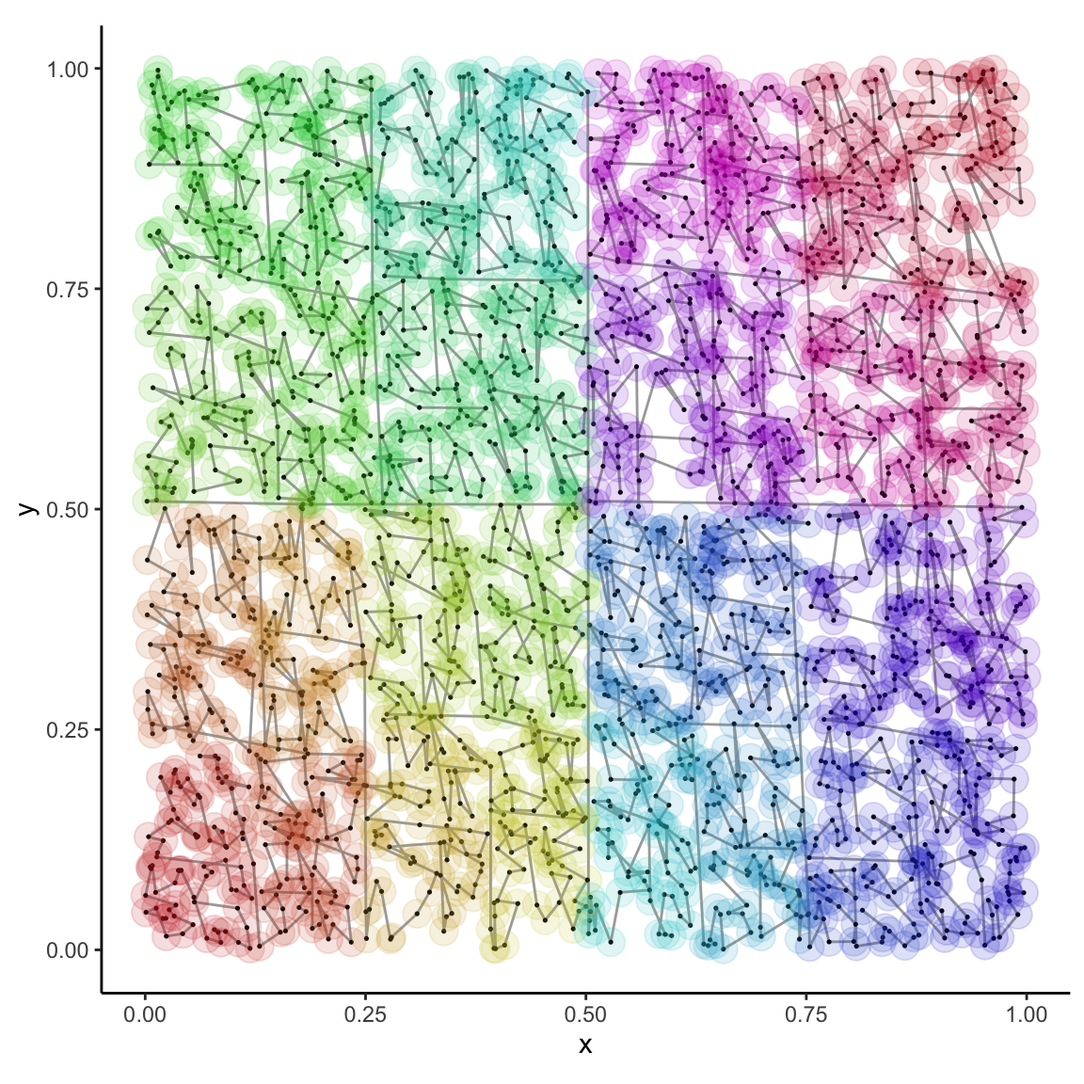
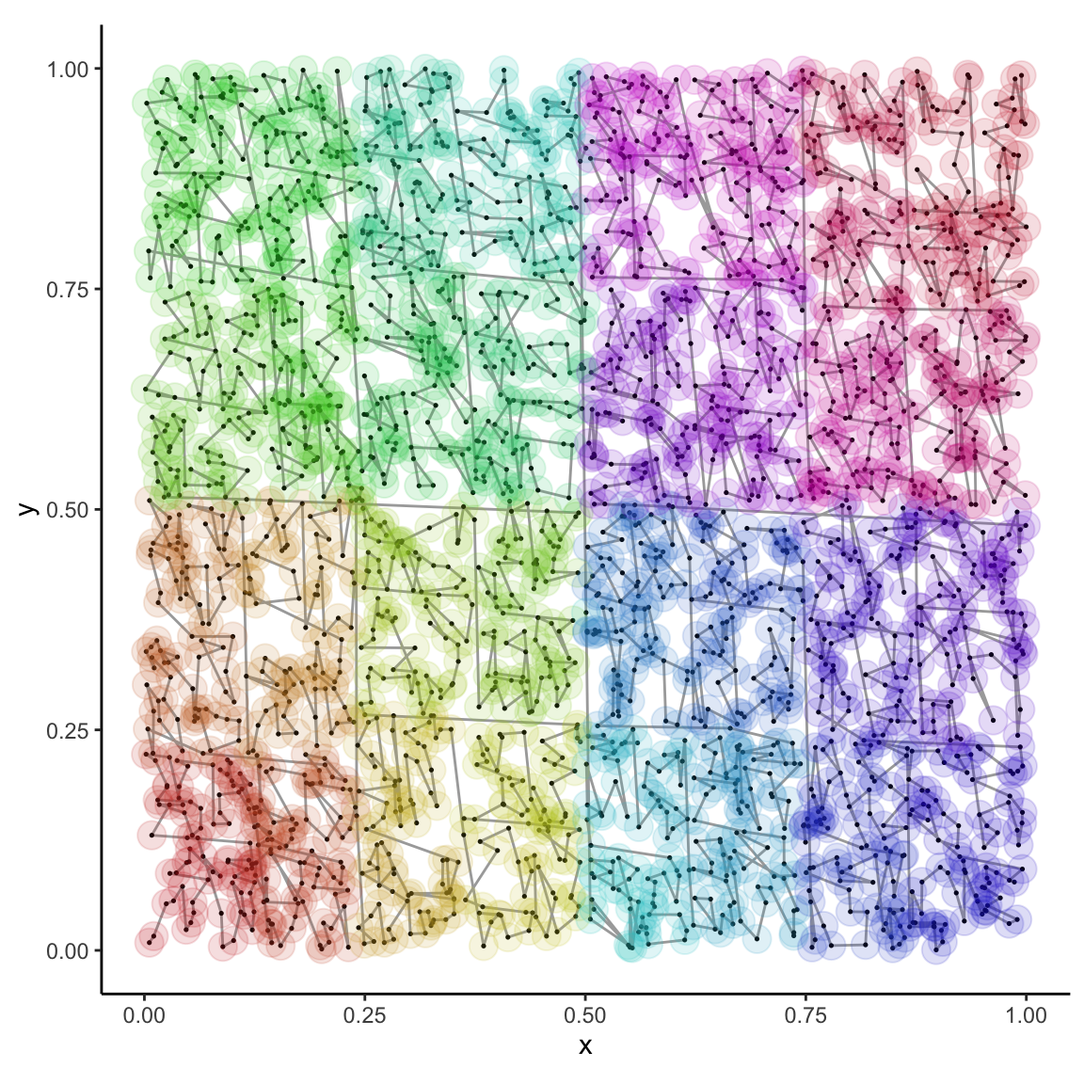
rebuild site

diff --git a/docs/articles/kdtools.html b/docs/articles/kdtools.html
@@ -86,7 +86,7 @@
       <h1>Getting started with kdtools</h1>
                         <h4 class="author">Timothy H. Keitt</h4>
             
-            <h4 class="date">2019-07-29</h4>
+            <h4 class="date">2019-08-03</h4>
       
       <small class="dont-index">Source: <a href="https://github.com/thk686/kdtools/blob/master/vignettes/kdtools.Rmd"><code>vignettes/kdtools.Rmd</code></a></small>
       <div class="hidden name"><code>kdtools.Rmd</code></div>
@@ -104,68 +104,68 @@
 <a class="sourceLine" id="cb1-2" data-line-number="2">x =<span class="st"> </span><span class="kw"><a href="https://www.rdocumentation.org/packages/base/topics/matrix">matrix</a></span>(<span class="kw"><a href="https://www.rdocumentation.org/packages/stats/topics/Uniform">runif</a></span>(<span class="fl">3e3</span>), <span class="dt">nc =</span> <span class="dv">3</span>)</a>
 <a class="sourceLine" id="cb1-3" data-line-number="3">y =<span class="st"> </span><span class="kw"><a href="../reference/convert.html">matrix_to_tuples</a></span>(x)</a>
 <a class="sourceLine" id="cb1-4" data-line-number="4">y[<span class="dv">1</span><span class="op">:</span><span class="dv">3</span>, <span class="kw"><a href="https://www.rdocumentation.org/packages/base/topics/c">c</a></span>(<span class="dv">1</span>, <span class="dv">3</span>)]</a>
-<a class="sourceLine" id="cb1-5" data-line-number="5"><span class="co">#&gt;            [,1]      [,2]</span></a>
-<a class="sourceLine" id="cb1-6" data-line-number="6"><span class="co">#&gt; [1,] 0.51755436 0.9938755</span></a>
-<a class="sourceLine" id="cb1-7" data-line-number="7"><span class="co">#&gt; [2,] 0.03777498 0.4228746</span></a>
-<a class="sourceLine" id="cb1-8" data-line-number="8"><span class="co">#&gt; [3,] 0.54226658 0.8108603</span></a></code></pre></div>
+<a class="sourceLine" id="cb1-5" data-line-number="5"><span class="co">#&gt;           [,1]       [,2]</span></a>
+<a class="sourceLine" id="cb1-6" data-line-number="6"><span class="co">#&gt; [1,] 0.1233450 0.21498913</span></a>
+<a class="sourceLine" id="cb1-7" data-line-number="7"><span class="co">#&gt; [2,] 0.1146390 0.08863607</span></a>
+<a class="sourceLine" id="cb1-8" data-line-number="8"><span class="co">#&gt; [3,] 0.4459682 0.10863890</span></a></code></pre></div>
 <p>The arrayvec object can be manipulated as if it were a matrix.</p>
 </div>
 <div id="step-2--sort-the-data" class="section level5">
 <h5 class="hasAnchor">
 <a href="#step-2--sort-the-data" class="anchor"></a>Step 2. Sort the data</h5>
 <div class="sourceCode" id="cb2"><pre class="sourceCode r"><code class="sourceCode r"><a class="sourceLine" id="cb2-1" data-line-number="1"><span class="kw"><a href="../reference/kdsort.html">kd_sort</a></span>(y, <span class="dt">inplace =</span> <span class="ot">TRUE</span>, <span class="dt">parallel =</span> <span class="ot">TRUE</span>)</a>
-<a class="sourceLine" id="cb2-2" data-line-number="2"><span class="co">#&gt;            [,1]       [,2]       [,3]</span></a>
-<a class="sourceLine" id="cb2-3" data-line-number="3"><span class="co">#&gt; [1,] 0.06278610 0.06628351 0.10955833</span></a>
-<a class="sourceLine" id="cb2-4" data-line-number="4"><span class="co">#&gt; [2,] 0.05001618 0.17998224 0.13994271</span></a>
-<a class="sourceLine" id="cb2-5" data-line-number="5"><span class="co">#&gt; [3,] 0.01122421 0.13709335 0.25348017</span></a>
-<a class="sourceLine" id="cb2-6" data-line-number="6"><span class="co">#&gt; [4,] 0.01472484 0.20839681 0.09129253</span></a>
-<a class="sourceLine" id="cb2-7" data-line-number="7"><span class="co">#&gt; [5,] 0.02685998 0.25670039 0.22060790</span></a>
+<a class="sourceLine" id="cb2-2" data-line-number="2"><span class="co">#&gt;             [,1]       [,2]       [,3]</span></a>
+<a class="sourceLine" id="cb2-3" data-line-number="3"><span class="co">#&gt; [1,] 0.028267253 0.07488172 0.01860541</span></a>
+<a class="sourceLine" id="cb2-4" data-line-number="4"><span class="co">#&gt; [2,] 0.018751897 0.04998469 0.07944720</span></a>
+<a class="sourceLine" id="cb2-5" data-line-number="5"><span class="co">#&gt; [3,] 0.003192217 0.08561158 0.20297802</span></a>
+<a class="sourceLine" id="cb2-6" data-line-number="6"><span class="co">#&gt; [4,] 0.072328793 0.15911146 0.02326977</span></a>
+<a class="sourceLine" id="cb2-7" data-line-number="7"><span class="co">#&gt; [5,] 0.053154242 0.20726600 0.02715269</span></a>
 <a class="sourceLine" id="cb2-8" data-line-number="8"><span class="co">#&gt; (continues for 995 more rows)</span></a></code></pre></div>
 </div>
 <div id="step-3--search-the-data" class="section level5">
 <h5 class="hasAnchor">
 <a href="#step-3--search-the-data" class="anchor"></a>Step 3. Search the data</h5>
 <div class="sourceCode" id="cb3"><pre class="sourceCode r"><code class="sourceCode r"><a class="sourceLine" id="cb3-1" data-line-number="1">rq =<span class="st"> </span><span class="kw"><a href="../reference/search.html">kd_range_query</a></span>(y, <span class="kw"><a href="https://www.rdocumentation.org/packages/base/topics/c">c</a></span>(<span class="dv">0</span>, <span class="dv">0</span>, <span class="dv">0</span>), <span class="kw"><a href="https://www.rdocumentation.org/packages/base/topics/c">c</a></span>(<span class="dv">1</span><span class="op">/</span><span class="dv">4</span>, <span class="dv">1</span><span class="op">/</span><span class="dv">4</span>, <span class="dv">1</span><span class="op">/</span><span class="dv">4</span>)); rq</a>
-<a class="sourceLine" id="cb3-2" data-line-number="2"><span class="co">#&gt;            [,1]        [,2]       [,3]</span></a>
-<a class="sourceLine" id="cb3-3" data-line-number="3"><span class="co">#&gt; [1,] 0.06278610 0.066283508 0.10955833</span></a>
-<a class="sourceLine" id="cb3-4" data-line-number="4"><span class="co">#&gt; [2,] 0.05001618 0.179982235 0.13994271</span></a>
-<a class="sourceLine" id="cb3-5" data-line-number="5"><span class="co">#&gt; [3,] 0.01472484 0.208396815 0.09129253</span></a>
-<a class="sourceLine" id="cb3-6" data-line-number="6"><span class="co">#&gt; [4,] 0.08144119 0.196978191 0.04042850</span></a>
-<a class="sourceLine" id="cb3-7" data-line-number="7"><span class="co">#&gt; [5,] 0.14010480 0.001835347 0.06192733</span></a>
-<a class="sourceLine" id="cb3-8" data-line-number="8"><span class="co">#&gt; (continues for 5 more rows)</span></a>
+<a class="sourceLine" id="cb3-2" data-line-number="2"><span class="co">#&gt;             [,1]       [,2]       [,3]</span></a>
+<a class="sourceLine" id="cb3-3" data-line-number="3"><span class="co">#&gt; [1,] 0.028267253 0.07488172 0.01860541</span></a>
+<a class="sourceLine" id="cb3-4" data-line-number="4"><span class="co">#&gt; [2,] 0.018751897 0.04998469 0.07944720</span></a>
+<a class="sourceLine" id="cb3-5" data-line-number="5"><span class="co">#&gt; [3,] 0.003192217 0.08561158 0.20297802</span></a>
+<a class="sourceLine" id="cb3-6" data-line-number="6"><span class="co">#&gt; [4,] 0.072328793 0.15911146 0.02326977</span></a>
+<a class="sourceLine" id="cb3-7" data-line-number="7"><span class="co">#&gt; [5,] 0.053154242 0.20726600 0.02715269</span></a>
+<a class="sourceLine" id="cb3-8" data-line-number="8"><span class="co">#&gt; (continues for 11 more rows)</span></a>
 <a class="sourceLine" id="cb3-9" data-line-number="9">i =<span class="st"> </span><span class="kw"><a href="../reference/nneighb.html">kd_nearest_neighbor</a></span>(y, <span class="kw"><a href="https://www.rdocumentation.org/packages/base/topics/c">c</a></span>(<span class="dv">0</span>, <span class="dv">0</span>, <span class="dv">0</span>)); y[i, ]</a>
-<a class="sourceLine" id="cb3-10" data-line-number="10"><span class="co">#&gt; [1] 0.06278610 0.06628351 0.10955833</span></a>
+<a class="sourceLine" id="cb3-10" data-line-number="10"><span class="co">#&gt; [1] 0.02826725 0.07488172 0.01860541</span></a>
 <a class="sourceLine" id="cb3-11" data-line-number="11">nns =<span class="st"> </span><span class="kw"><a href="../reference/nneighb.html">kd_nearest_neighbors</a></span>(y, <span class="kw"><a href="https://www.rdocumentation.org/packages/base/topics/c">c</a></span>(<span class="dv">0</span>, <span class="dv">0</span>, <span class="dv">0</span>), <span class="dv">100</span>); nns</a>
-<a class="sourceLine" id="cb3-12" data-line-number="12"><span class="co">#&gt;           [,1]       [,2]       [,3]</span></a>
-<a class="sourceLine" id="cb3-13" data-line-number="13"><span class="co">#&gt; [1,] 0.4286782 0.32044885 0.21316485</span></a>
-<a class="sourceLine" id="cb3-14" data-line-number="14"><span class="co">#&gt; [2,] 0.4194263 0.38607815 0.06638974</span></a>
-<a class="sourceLine" id="cb3-15" data-line-number="15"><span class="co">#&gt; [3,] 0.2860067 0.24810007 0.43076659</span></a>
-<a class="sourceLine" id="cb3-16" data-line-number="16"><span class="co">#&gt; [4,] 0.4414132 0.07924985 0.35741589</span></a>
-<a class="sourceLine" id="cb3-17" data-line-number="17"><span class="co">#&gt; [5,] 0.5343496 0.02133576 0.20435933</span></a>
+<a class="sourceLine" id="cb3-12" data-line-number="12"><span class="co">#&gt;            [,1]       [,2]       [,3]</span></a>
+<a class="sourceLine" id="cb3-13" data-line-number="13"><span class="co">#&gt; [1,] 0.48252354 0.25520884 0.21665136</span></a>
+<a class="sourceLine" id="cb3-14" data-line-number="14"><span class="co">#&gt; [2,] 0.05954167 0.57890284 0.05113408</span></a>
+<a class="sourceLine" id="cb3-15" data-line-number="15"><span class="co">#&gt; [3,] 0.01680036 0.01629322 0.58369886</span></a>
+<a class="sourceLine" id="cb3-16" data-line-number="16"><span class="co">#&gt; [4,] 0.32984164 0.47883303 0.03549051</span></a>
+<a class="sourceLine" id="cb3-17" data-line-number="17"><span class="co">#&gt; [5,] 0.16417553 0.32417502 0.45183810</span></a>
 <a class="sourceLine" id="cb3-18" data-line-number="18"><span class="co">#&gt; (continues for 95 more rows)</span></a>
 <a class="sourceLine" id="cb3-19" data-line-number="19">nni =<span class="st"> </span><span class="kw"><a href="../reference/nneighb.html">kd_nn_indices</a></span>(y, <span class="kw"><a href="https://www.rdocumentation.org/packages/base/topics/c">c</a></span>(<span class="dv">0</span>, <span class="dv">0</span>, <span class="dv">0</span>), <span class="dv">10</span>); nni</a>
-<a class="sourceLine" id="cb3-20" data-line-number="20"><span class="co">#&gt;  [1] 64 13  3 65  2  4  8 10  9  1</span></a></code></pre></div>
+<a class="sourceLine" id="cb3-20" data-line-number="20"><span class="co">#&gt;  [1] 17  3  7 14  5  8  9  4  2  1</span></a></code></pre></div>
 <p>The <code>kd_nearest_neighbor</code> and <code>kd_nn_indices</code> functions return row-indices. The other functions return arrayvec objects.</p>
 </div>
 <div id="step-4--convert-back-to-a-matrix-for-use-in-r" class="section level5">
 <h5 class="hasAnchor">
 <a href="#step-4--convert-back-to-a-matrix-for-use-in-r" class="anchor"></a>Step 4. Convert back to a matrix for use in R</h5>
 <div class="sourceCode" id="cb4"><pre class="sourceCode r"><code class="sourceCode r"><a class="sourceLine" id="cb4-1" data-line-number="1"><span class="kw"><a href="https://www.rdocumentation.org/packages/utils/topics/head">head</a></span>(<span class="kw"><a href="../reference/convert.html">tuples_to_matrix</a></span>(rq))</a>
-<a class="sourceLine" id="cb4-2" data-line-number="2"><span class="co">#&gt;            [,1]        [,2]       [,3]</span></a>
-<a class="sourceLine" id="cb4-3" data-line-number="3"><span class="co">#&gt; [1,] 0.06278610 0.066283508 0.10955833</span></a>
-<a class="sourceLine" id="cb4-4" data-line-number="4"><span class="co">#&gt; [2,] 0.05001618 0.179982235 0.13994271</span></a>
-<a class="sourceLine" id="cb4-5" data-line-number="5"><span class="co">#&gt; [3,] 0.01472484 0.208396815 0.09129253</span></a>
-<a class="sourceLine" id="cb4-6" data-line-number="6"><span class="co">#&gt; [4,] 0.08144119 0.196978191 0.04042850</span></a>
-<a class="sourceLine" id="cb4-7" data-line-number="7"><span class="co">#&gt; [5,] 0.14010480 0.001835347 0.06192733</span></a>
-<a class="sourceLine" id="cb4-8" data-line-number="8"><span class="co">#&gt; [6,] 0.09489338 0.011047936 0.14402181</span></a>
+<a class="sourceLine" id="cb4-2" data-line-number="2"><span class="co">#&gt;             [,1]       [,2]       [,3]</span></a>
+<a class="sourceLine" id="cb4-3" data-line-number="3"><span class="co">#&gt; [1,] 0.028267253 0.07488172 0.01860541</span></a>
+<a class="sourceLine" id="cb4-4" data-line-number="4"><span class="co">#&gt; [2,] 0.018751897 0.04998469 0.07944720</span></a>
+<a class="sourceLine" id="cb4-5" data-line-number="5"><span class="co">#&gt; [3,] 0.003192217 0.08561158 0.20297802</span></a>
+<a class="sourceLine" id="cb4-6" data-line-number="6"><span class="co">#&gt; [4,] 0.072328793 0.15911146 0.02326977</span></a>
+<a class="sourceLine" id="cb4-7" data-line-number="7"><span class="co">#&gt; [5,] 0.053154242 0.20726600 0.02715269</span></a>
+<a class="sourceLine" id="cb4-8" data-line-number="8"><span class="co">#&gt; [6,] 0.061278885 0.18646798 0.10821062</span></a>
 <a class="sourceLine" id="cb4-9" data-line-number="9"><span class="kw"><a href="https://www.rdocumentation.org/packages/utils/topics/head">head</a></span>(<span class="kw"><a href="../reference/convert.html">tuples_to_matrix</a></span>(nns))</a>
-<a class="sourceLine" id="cb4-10" data-line-number="10"><span class="co">#&gt;           [,1]       [,2]       [,3]</span></a>
-<a class="sourceLine" id="cb4-11" data-line-number="11"><span class="co">#&gt; [1,] 0.4286782 0.32044885 0.21316485</span></a>
-<a class="sourceLine" id="cb4-12" data-line-number="12"><span class="co">#&gt; [2,] 0.4194263 0.38607815 0.06638974</span></a>
-<a class="sourceLine" id="cb4-13" data-line-number="13"><span class="co">#&gt; [3,] 0.2860067 0.24810007 0.43076659</span></a>
-<a class="sourceLine" id="cb4-14" data-line-number="14"><span class="co">#&gt; [4,] 0.4414132 0.07924985 0.35741589</span></a>
-<a class="sourceLine" id="cb4-15" data-line-number="15"><span class="co">#&gt; [5,] 0.5343496 0.02133576 0.20435933</span></a>
-<a class="sourceLine" id="cb4-16" data-line-number="16"><span class="co">#&gt; [6,] 0.1282309 0.16300195 0.53354889</span></a></code></pre></div>
+<a class="sourceLine" id="cb4-10" data-line-number="10"><span class="co">#&gt;            [,1]       [,2]       [,3]</span></a>
+<a class="sourceLine" id="cb4-11" data-line-number="11"><span class="co">#&gt; [1,] 0.48252354 0.25520884 0.21665136</span></a>
+<a class="sourceLine" id="cb4-12" data-line-number="12"><span class="co">#&gt; [2,] 0.05954167 0.57890284 0.05113408</span></a>
+<a class="sourceLine" id="cb4-13" data-line-number="13"><span class="co">#&gt; [3,] 0.01680036 0.01629322 0.58369886</span></a>
+<a class="sourceLine" id="cb4-14" data-line-number="14"><span class="co">#&gt; [4,] 0.32984164 0.47883303 0.03549051</span></a>
+<a class="sourceLine" id="cb4-15" data-line-number="15"><span class="co">#&gt; [5,] 0.16417553 0.32417502 0.45183810</span></a>
+<a class="sourceLine" id="cb4-16" data-line-number="16"><span class="co">#&gt; [6,] 0.24286490 0.34201202 0.39069827</span></a></code></pre></div>
 <p>If you pass a matrix instead of an arrayvec object to any of the functions, it will be converted to an arrayvec object internally and results will be returned as matrices. This is slower and provided for convenience.</p>
 </div>
   </div>

diff --git a/docs/articles/methods.html b/docs/articles/methods.html
@@ -86,7 +86,7 @@
       <h1>Compact multidimensional sorting and searching with kdtools</h1>
                         <h4 class="author">Timothy H. Keitt</h4>
             
-            <h4 class="date">2019-07-29</h4>
+            <h4 class="date">2019-08-03</h4>
       
       <small class="dont-index">Source: <a href="https://github.com/thk686/kdtools/blob/master/vignettes/methods.Rmd"><code>vignettes/methods.Rmd</code></a></small>
       <div class="hidden name"><code>methods.Rmd</code></div>
@@ -234,26 +234,26 @@
 <div class="sourceCode" id="cb4"><pre class="sourceCode r"><code class="sourceCode r"><a class="sourceLine" id="cb4-1" data-line-number="1"><span class="kw"><a href="https://www.rdocumentation.org/packages/base/topics/t">t</a></span>(<span class="kw"><a href="../reference/kdsort.html">kd_sort</a></span>(<span class="kw"><a href="https://www.rdocumentation.org/packages/base/topics/cbind">cbind</a></span>(j, k)))</a></code></pre></div>
 <table class="table"><tbody>
 <tr class="odd">
-<td align="right">1</td>
-<td align="right">4</td>
-<td align="right">3</td>
 <td align="right">2</td>
+<td align="right">4</td>
+<td align="right">1</td>
+<td align="right">3</td>
 <td align="right">5</td>
 <td align="right">6</td>
-<td align="right">7</td>
 <td align="right">9</td>
 <td align="right">8</td>
+<td align="right">7</td>
 </tr>
 <tr class="even">
 <td align="right">2</td>
+<td align="right">1</td>
 <td align="right">3</td>
+<td align="right">6</td>
+<td align="right">5</td>
+<td align="right">4</td>
+<td align="right">7</td>
 <td align="right">8</td>
 <td align="right">9</td>
-<td align="right">7</td>
-<td align="right">4</td>
-<td align="right">1</td>
-<td align="right">5</td>
-<td align="right">6</td>
 </tr>
 </tbody></table>
 <div class="sourceCode" id="cb5"><pre class="sourceCode r"><code class="sourceCode r"><a class="sourceLine" id="cb5-1" data-line-number="1"><span class="kw"><a href="https://www.rdocumentation.org/packages/base/topics/t">t</a></span>(<span class="kw"><a href="../reference/kdsort.html">kd_sort</a></span>(<span class="kw"><a href="https://www.rdocumentation.org/packages/base/topics/cbind">cbind</a></span>(<span class="dv">0</span>, j, k)))</a></code></pre></div>
@@ -270,51 +270,51 @@
 <td align="right">0</td>
 </tr>
 <tr class="even">
-<td align="right">1</td>
 <td align="right">2</td>
+<td align="right">1</td>
 <td align="right">3</td>
 <td align="right">4</td>
 <td align="right">5</td>
-<td align="right">7</td>
 <td align="right">6</td>
+<td align="right">7</td>
 <td align="right">8</td>
 <td align="right">9</td>
 </tr>
 <tr class="odd">
 <td align="right">2</td>
+<td align="right">3</td>
+<td align="right">6</td>
+<td align="right">1</td>
+<td align="right">5</td>
+<td align="right">4</td>
 <td align="right">9</td>
 <td align="right">8</td>
-<td align="right">3</td>
 <td align="right">7</td>
-<td align="right">1</td>
-<td align="right">4</td>
-<td align="right">6</td>
-<td align="right">5</td>
 </tr>
 </tbody></table>
 <div class="sourceCode" id="cb6"><pre class="sourceCode r"><code class="sourceCode r"><a class="sourceLine" id="cb6-1" data-line-number="1"><span class="kw"><a href="https://www.rdocumentation.org/packages/base/topics/t">t</a></span>(<span class="kw"><a href="../reference/kdsort.html">kd_sort</a></span>(<span class="kw"><a href="https://www.rdocumentation.org/packages/base/topics/cbind">cbind</a></span>(j, k, <span class="dv">0</span>)))</a></code></pre></div>
 <table class="table"><tbody>
 <tr class="odd">
-<td align="right">1</td>
-<td align="right">4</td>
-<td align="right">3</td>
 <td align="right">2</td>
+<td align="right">4</td>
+<td align="right">1</td>
+<td align="right">3</td>
 <td align="right">5</td>
 <td align="right">6</td>
-<td align="right">7</td>
 <td align="right">9</td>
 <td align="right">8</td>
+<td align="right">7</td>
 </tr>
 <tr class="even">
 <td align="right">2</td>
+<td align="right">1</td>
 <td align="right">3</td>
+<td align="right">6</td>
+<td align="right">5</td>
+<td align="right">4</td>
+<td align="right">7</td>
 <td align="right">8</td>
 <td align="right">9</td>
-<td align="right">7</td>
-<td align="right">4</td>
-<td align="right">1</td>
-<td align="right">5</td>
-<td align="right">6</td>
 </tr>
 <tr class="odd">
 <td align="right">0</td>
@@ -583,41 +583,41 @@
 <a class="sourceLine" id="cb10-3" data-line-number="3">strings =<span class="st"> </span><span class="kw"><a href="https://www.rdocumentation.org/packages/base/topics/sample">sample</a></span>(<span class="kw"><a href="https://www.rdocumentation.org/packages/base/topics/chartr">tolower</a></span>(parts_of_speech[[<span class="dv">1</span>]]))</a>
 <a class="sourceLine" id="cb10-4" data-line-number="4"><span class="kw">mixed_query</span>(numbers, strings)</a>
 <a class="sourceLine" id="cb10-5" data-line-number="5"><span class="co">#&gt; </span></a>
-<a class="sourceLine" id="cb10-6" data-line-number="6"><span class="co">#&gt; Sort time: 0.117099 seconds</span></a>
+<a class="sourceLine" id="cb10-6" data-line-number="6"><span class="co">#&gt; Sort time: 0.139143 seconds</span></a>
 <a class="sourceLine" id="cb10-7" data-line-number="7"><span class="co">#&gt; </span></a>
 <a class="sourceLine" id="cb10-8" data-line-number="8"><span class="co">#&gt; First and last 3 elements of sorted data:</span></a>
 <a class="sourceLine" id="cb10-9" data-line-number="9"><span class="co">#&gt; </span></a>
-<a class="sourceLine" id="cb10-10" data-line-number="10"><span class="co">#&gt; 0 0.0001032 abigail</span></a>
-<a class="sourceLine" id="cb10-11" data-line-number="11"><span class="co">#&gt; 1 0.000367 abjuratory</span></a>
-<a class="sourceLine" id="cb10-12" data-line-number="12"><span class="co">#&gt; 2 0.001344 accost</span></a>
+<a class="sourceLine" id="cb10-10" data-line-number="10"><span class="co">#&gt; 0 0.001185 aaronitic</span></a>
+<a class="sourceLine" id="cb10-11" data-line-number="11"><span class="co">#&gt; 1 0.001339 abraded</span></a>
+<a class="sourceLine" id="cb10-12" data-line-number="12"><span class="co">#&gt; 2 0.003488 abhorrer</span></a>
 <a class="sourceLine" id="cb10-13" data-line-number="13"><span class="co">#&gt; ...</span></a>
-<a class="sourceLine" id="cb10-14" data-line-number="14"><span class="co">#&gt; 208256 0.9997 zingare</span></a>
-<a class="sourceLine" id="cb10-15" data-line-number="15"><span class="co">#&gt; 208257 0.9983 zloty</span></a>
-<a class="sourceLine" id="cb10-16" data-line-number="16"><span class="co">#&gt; 208258 0.9988 zooplankton</span></a>
+<a class="sourceLine" id="cb10-14" data-line-number="14"><span class="co">#&gt; 208256 0.9989 yeti</span></a>
+<a class="sourceLine" id="cb10-15" data-line-number="15"><span class="co">#&gt; 208257 0.9989 zipangu</span></a>
+<a class="sourceLine" id="cb10-16" data-line-number="16"><span class="co">#&gt; 208258 0.999 zapata</span></a>
 <a class="sourceLine" id="cb10-17" data-line-number="17"><span class="co">#&gt; </span></a>
-<a class="sourceLine" id="cb10-18" data-line-number="18"><span class="co">#&gt; Query time: 9.3561e-05 seconds</span></a>
+<a class="sourceLine" id="cb10-18" data-line-number="18"><span class="co">#&gt; Query time: 0.000109588 seconds</span></a>
 <a class="sourceLine" id="cb10-19" data-line-number="19"><span class="co">#&gt; </span></a>
 <a class="sourceLine" id="cb10-20" data-line-number="20"><span class="co">#&gt; First and last 3 elements of query return:</span></a>
 <a class="sourceLine" id="cb10-21" data-line-number="21"><span class="co">#&gt; </span></a>
-<a class="sourceLine" id="cb10-22" data-line-number="22"><span class="co">#&gt; 0 0.41 waco</span></a>
-<a class="sourceLine" id="cb10-23" data-line-number="23"><span class="co">#&gt; 1 0.4068 wailful</span></a>
-<a class="sourceLine" id="cb10-24" data-line-number="24"><span class="co">#&gt; 2 0.4139 waggishly</span></a>
+<a class="sourceLine" id="cb10-22" data-line-number="22"><span class="co">#&gt; 0 0.4014 wabbled</span></a>
+<a class="sourceLine" id="cb10-23" data-line-number="23"><span class="co">#&gt; 1 0.4001 wage</span></a>
+<a class="sourceLine" id="cb10-24" data-line-number="24"><span class="co">#&gt; 2 0.4036 wale</span></a>
 <a class="sourceLine" id="cb10-25" data-line-number="25"><span class="co">#&gt; ...</span></a>
-<a class="sourceLine" id="cb10-26" data-line-number="26"><span class="co">#&gt; 1079 0.5884 yowl</span></a>
-<a class="sourceLine" id="cb10-27" data-line-number="27"><span class="co">#&gt; 1080 0.5957 yiddish</span></a>
-<a class="sourceLine" id="cb10-28" data-line-number="28"><span class="co">#&gt; 1081 0.5989 ynes</span></a>
+<a class="sourceLine" id="cb10-26" data-line-number="26"><span class="co">#&gt; 1136 0.5905 yellowbelly</span></a>
+<a class="sourceLine" id="cb10-27" data-line-number="27"><span class="co">#&gt; 1137 0.5907 yeaton</span></a>
+<a class="sourceLine" id="cb10-28" data-line-number="28"><span class="co">#&gt; 1138 0.5976 you'll</span></a>
 <a class="sourceLine" id="cb10-29" data-line-number="29"><span class="co">#&gt; </span></a>
-<a class="sourceLine" id="cb10-30" data-line-number="30"><span class="co">#&gt; Neighbors query time: 0.00113973 seconds</span></a>
+<a class="sourceLine" id="cb10-30" data-line-number="30"><span class="co">#&gt; Neighbors query time: 0.00101591 seconds</span></a>
 <a class="sourceLine" id="cb10-31" data-line-number="31"><span class="co">#&gt; </span></a>
 <a class="sourceLine" id="cb10-32" data-line-number="32"><span class="co">#&gt; First and last 3 elements of neighbors query return:</span></a>
 <a class="sourceLine" id="cb10-33" data-line-number="33"><span class="co">#&gt; </span></a>
-<a class="sourceLine" id="cb10-34" data-line-number="34"><span class="co">#&gt; 0 0.5335 lotteries</span></a>
-<a class="sourceLine" id="cb10-35" data-line-number="35"><span class="co">#&gt; 1 0.5335 kingliest</span></a>
-<a class="sourceLine" id="cb10-36" data-line-number="36"><span class="co">#&gt; 2 0.5335 kinetosis</span></a>
+<a class="sourceLine" id="cb10-34" data-line-number="34"><span class="co">#&gt; 0 0.5298 kalis</span></a>
+<a class="sourceLine" id="cb10-35" data-line-number="35"><span class="co">#&gt; 1 0.2992 isotopic</span></a>
+<a class="sourceLine" id="cb10-36" data-line-number="36"><span class="co">#&gt; 2 0.5283 landsturm</span></a>
 <a class="sourceLine" id="cb10-37" data-line-number="37"><span class="co">#&gt; ...</span></a>
-<a class="sourceLine" id="cb10-38" data-line-number="38"><span class="co">#&gt; 97 0.5035 kilo-oersted</span></a>
-<a class="sourceLine" id="cb10-39" data-line-number="39"><span class="co">#&gt; 98 0.511 loadstone</span></a>
-<a class="sourceLine" id="cb10-40" data-line-number="40"><span class="co">#&gt; 99 0.5097 klopstock</span></a></code></pre></div>
+<a class="sourceLine" id="cb10-38" data-line-number="38"><span class="co">#&gt; 97 0.5092 knowlton</span></a>
+<a class="sourceLine" id="cb10-39" data-line-number="39"><span class="co">#&gt; 98 0.5253 katholikos</span></a>
+<a class="sourceLine" id="cb10-40" data-line-number="40"><span class="co">#&gt; 99 0.4533 jostled</span></a></code></pre></div>
 <p>The timing results indicate that sorting <span class="math inline">\(2 \times 10 ^ 5\)</span> tuples is on the order of 1/10th second, whereas the range query returned in less than a millisecond.</p>
 <p>Nearest neighbor searching requires a suitable distance function be defined for all types. There are two specialization points: the templates <code>scalar_diff</code>, which returns a possibly signed difference between to objects, and <code>scalar_dist</code>, which returns the distance along a single dimension. Currently, nearest neighbor distances are hardwired as the L2 norm of the returned scalar differences computed for each dimension. The computation above uses the following definitions.</p>
 <div class="sourceCode" id="cb11"><pre class="sourceCode cpp"><code class="sourceCode cpp"><a class="sourceLine" id="cb11-1" data-line-number="1"><span class="kw">template</span>&lt;<span class="kw"><a href="https://www.rdocumentation.org/packages/base/topics/class">class</a></span> InputIt1, <span class="kw"><a href="https://www.rdocumentation.org/packages/base/topics/class">class</a></span> InputIt2&gt;</a>

diff --git a/docs/index.html b/docs/index.html
@@ -100,7 +100,7 @@
 <a class="sourceLine" id="cb1-5" data-line-number="5">y =<span class="st"> </span><span class="kw"><a href="reference/search.html">kd_range_query</a></span>(x, <span class="kw"><a href="https://www.rdocumentation.org/packages/base/topics/c">c</a></span>(<span class="dv">1</span><span class="op">/</span><span class="dv">4</span>, <span class="dv">1</span><span class="op">/</span><span class="dv">4</span>), <span class="kw"><a href="https://www.rdocumentation.org/packages/base/topics/c">c</a></span>(<span class="dv">3</span><span class="op">/</span><span class="dv">4</span>, <span class="dv">3</span><span class="op">/</span><span class="dv">4</span>))</a>
 <a class="sourceLine" id="cb1-6" data-line-number="6"><span class="kw"><a href="https://www.rdocumentation.org/packages/graphics/topics/points">points</a></span>(y, <span class="dt">pch =</span> <span class="dv">19</span>, <span class="dt">cex =</span> <span class="fl">0.5</span>, <span class="dt">col =</span> <span class="st">"red"</span>)</a></code></pre></div>
 <p><img src="reference/figures/README-unnamed-chunk-1-1.png" width="100%"></p>
-<p><a href="https://cran.r-project.org/package=kdtools"><img src="https://www.r-pkg.org/badges/version/kdtools" alt="CRAN status"></a> <a href="https://travis-ci.org/thk686/kdtools"><img src="https://travis-ci.org/thk686/kdtools.svg?branch=master" alt="Travis build status"></a> <a href="https://ci.appveyor.com/project/thk686/kdtools"><img src="https://ci.appveyor.com/api/projects/status/github/thk686/kdtools?branch=master&amp;svg=true" alt="AppVeyor build status"></a> <a href="https://codecov.io/github/thk686/kdtools?branch=master"><img src="https://codecov.io/gh/thk686/kdtools/branch/master/graph/badge.svg" alt="Coverage status"></a> <a href="https://zenodo.org/badge/latestdoi/125262786"><img src="https://zenodo.org/badge/125262786.svg" alt="DOI"></a></p>
+<p><a href="https://cran.r-project.org/package=kdtools"><img src="https://www.r-pkg.org/badges/version/kdtools" alt="CRAN status"></a> <a href="https://circleci.com/gh/thk686/kdtools"><img src="https://circleci.com/gh/thk686/kdtools.svg?style=svg" alt="CircleCI build status"></a> <a href="https://ci.appveyor.com/project/thk686/kdtools"><img src="https://ci.appveyor.com/api/projects/status/github/thk686/kdtools?branch=master&amp;svg=true" alt="AppVeyor build status"></a> <a href="https://codecov.io/github/thk686/kdtools?branch=master"><img src="https://codecov.io/gh/thk686/kdtools/branch/master/graph/badge.svg" alt="Coverage status"></a> <a href="https://zenodo.org/badge/latestdoi/125262786"><img src="https://zenodo.org/badge/125262786.svg" alt="DOI"></a></p>
 </div>
   </div>
 

diff --git a/README.md b/README.md
@@ -30,7 +30,3 @@ status](https://ci.appveyor.com/api/projects/status/github/thk686/kdtools?branch
 [![Coverage
 status](https://codecov.io/gh/thk686/kdtools/branch/master/graph/badge.svg)](https://codecov.io/github/thk686/kdtools?branch=master)
 [![DOI](https://zenodo.org/badge/125262786.svg)](https://zenodo.org/badge/latestdoi/125262786)
-
-<!---
-[![Travis build status](https://travis-ci.org/thk686/kdtools.svg?branch=master)](https://travis-ci.org/thk686/kdtools)
---->
